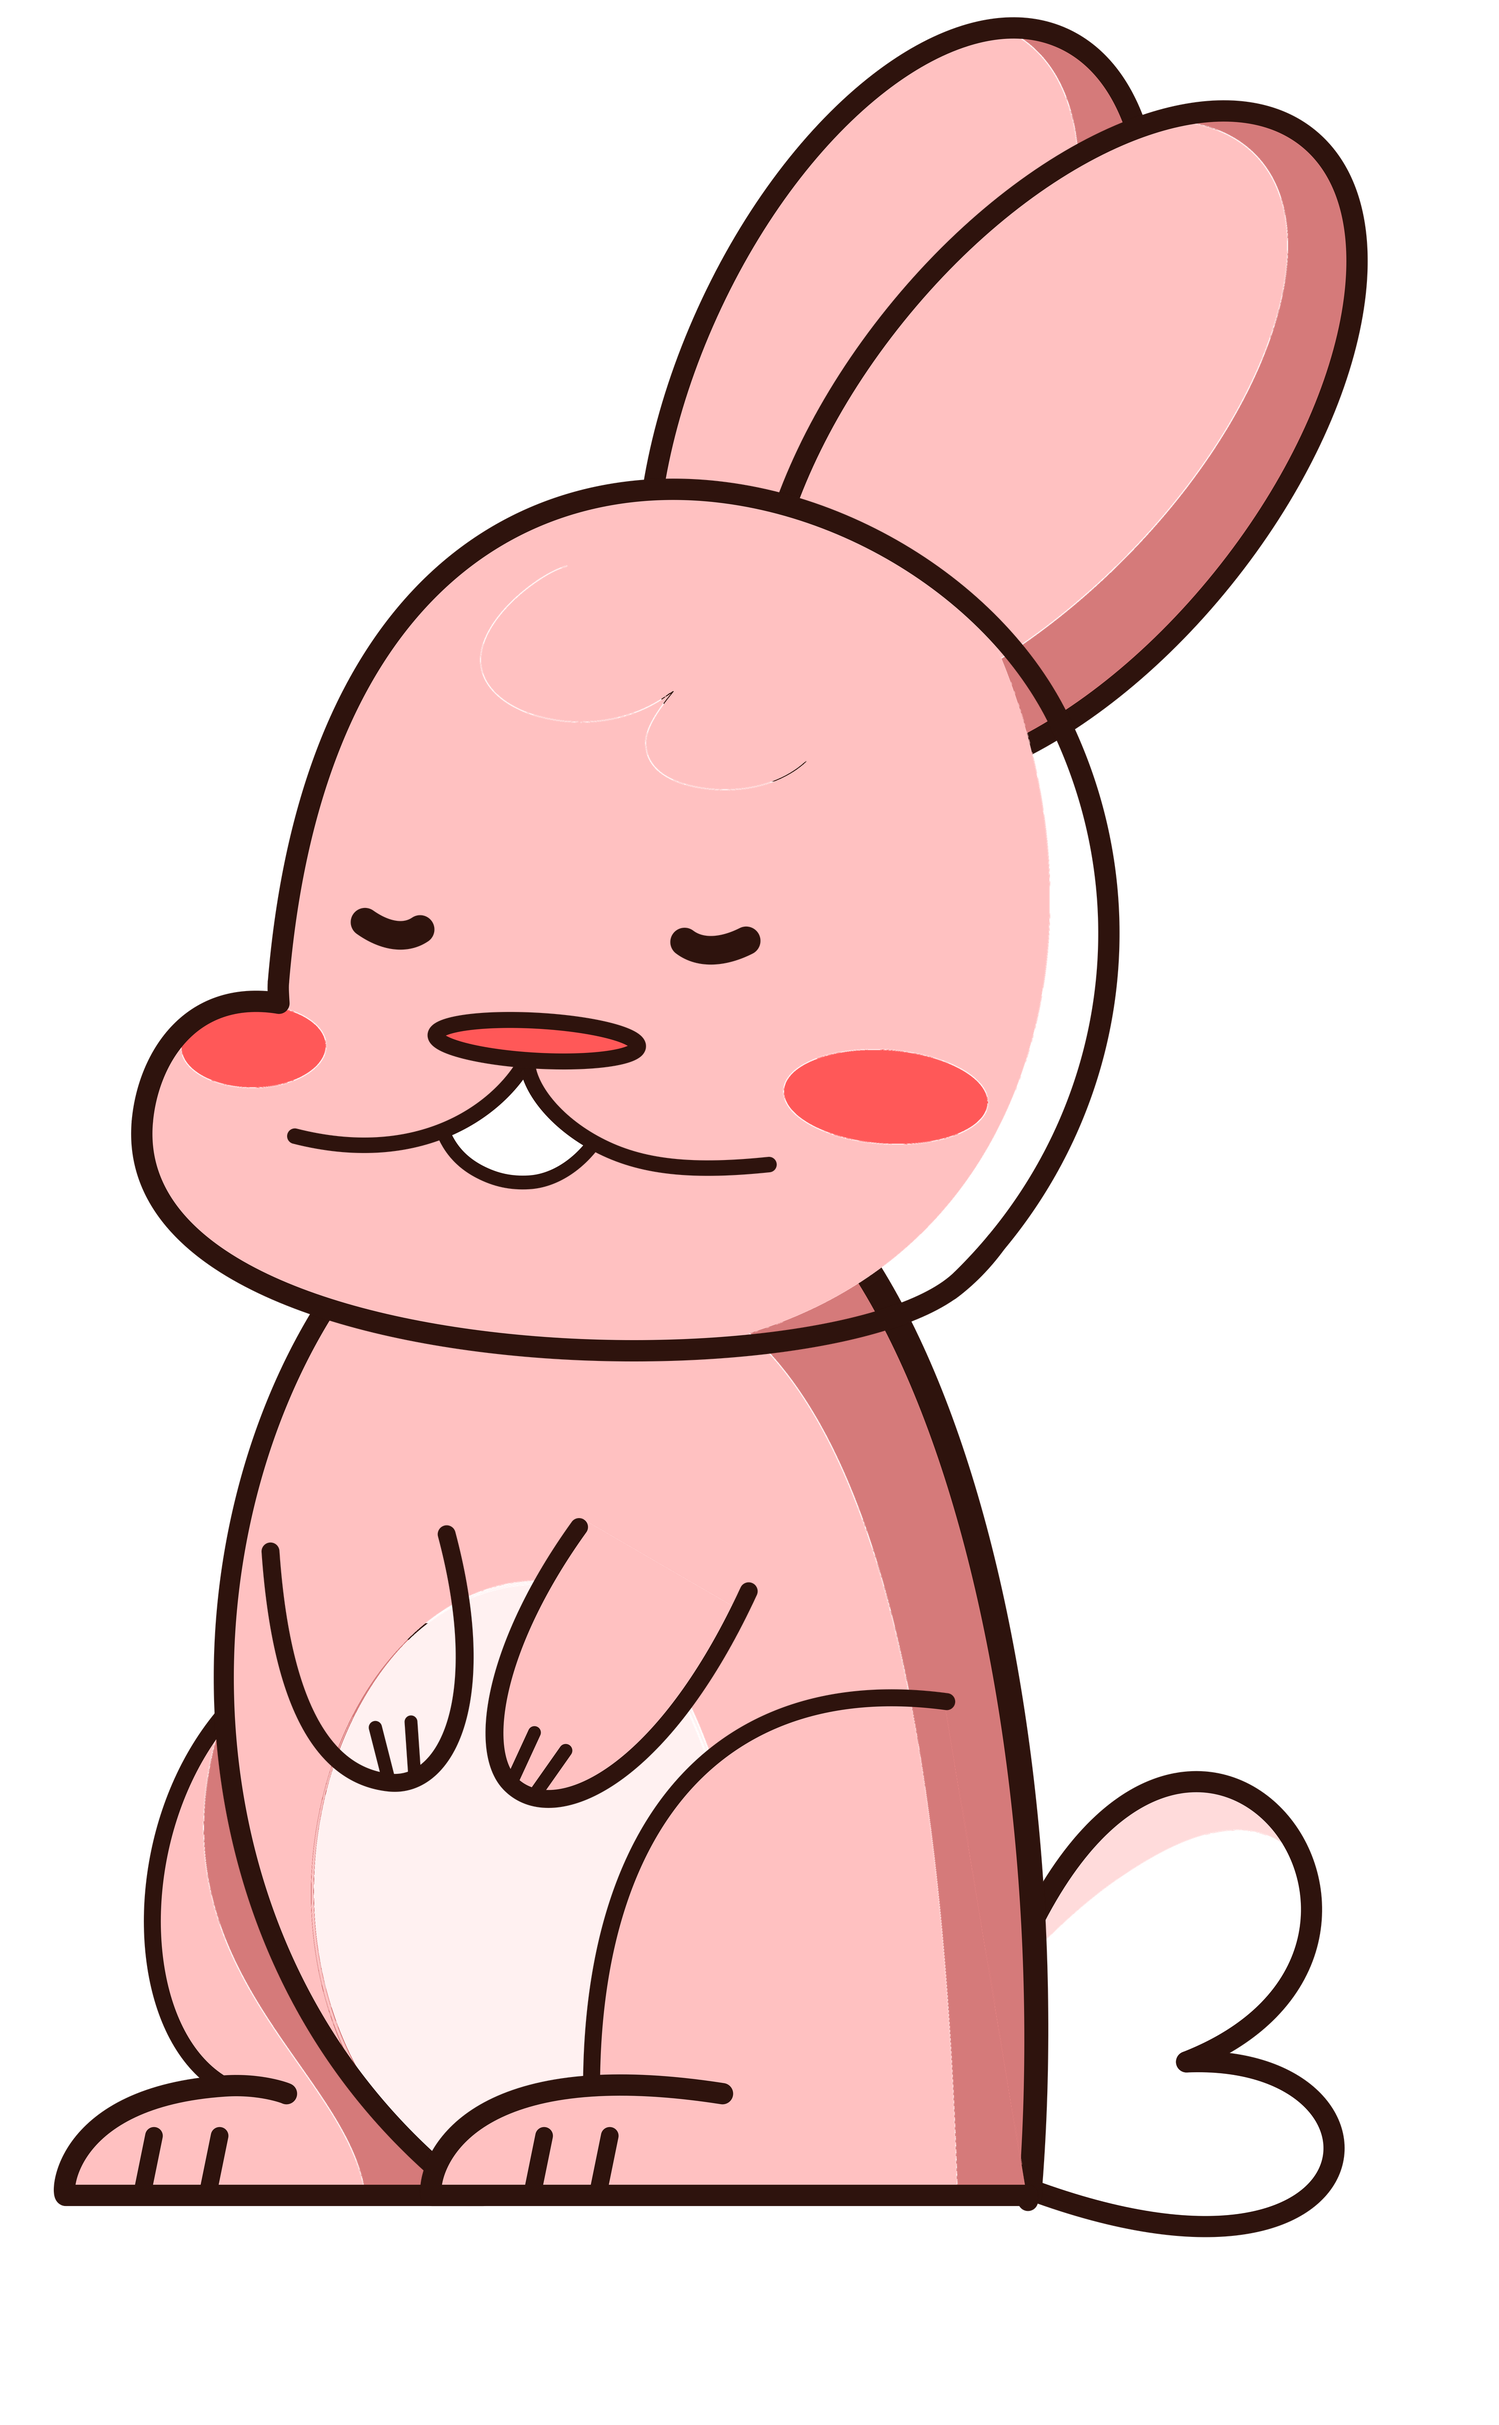
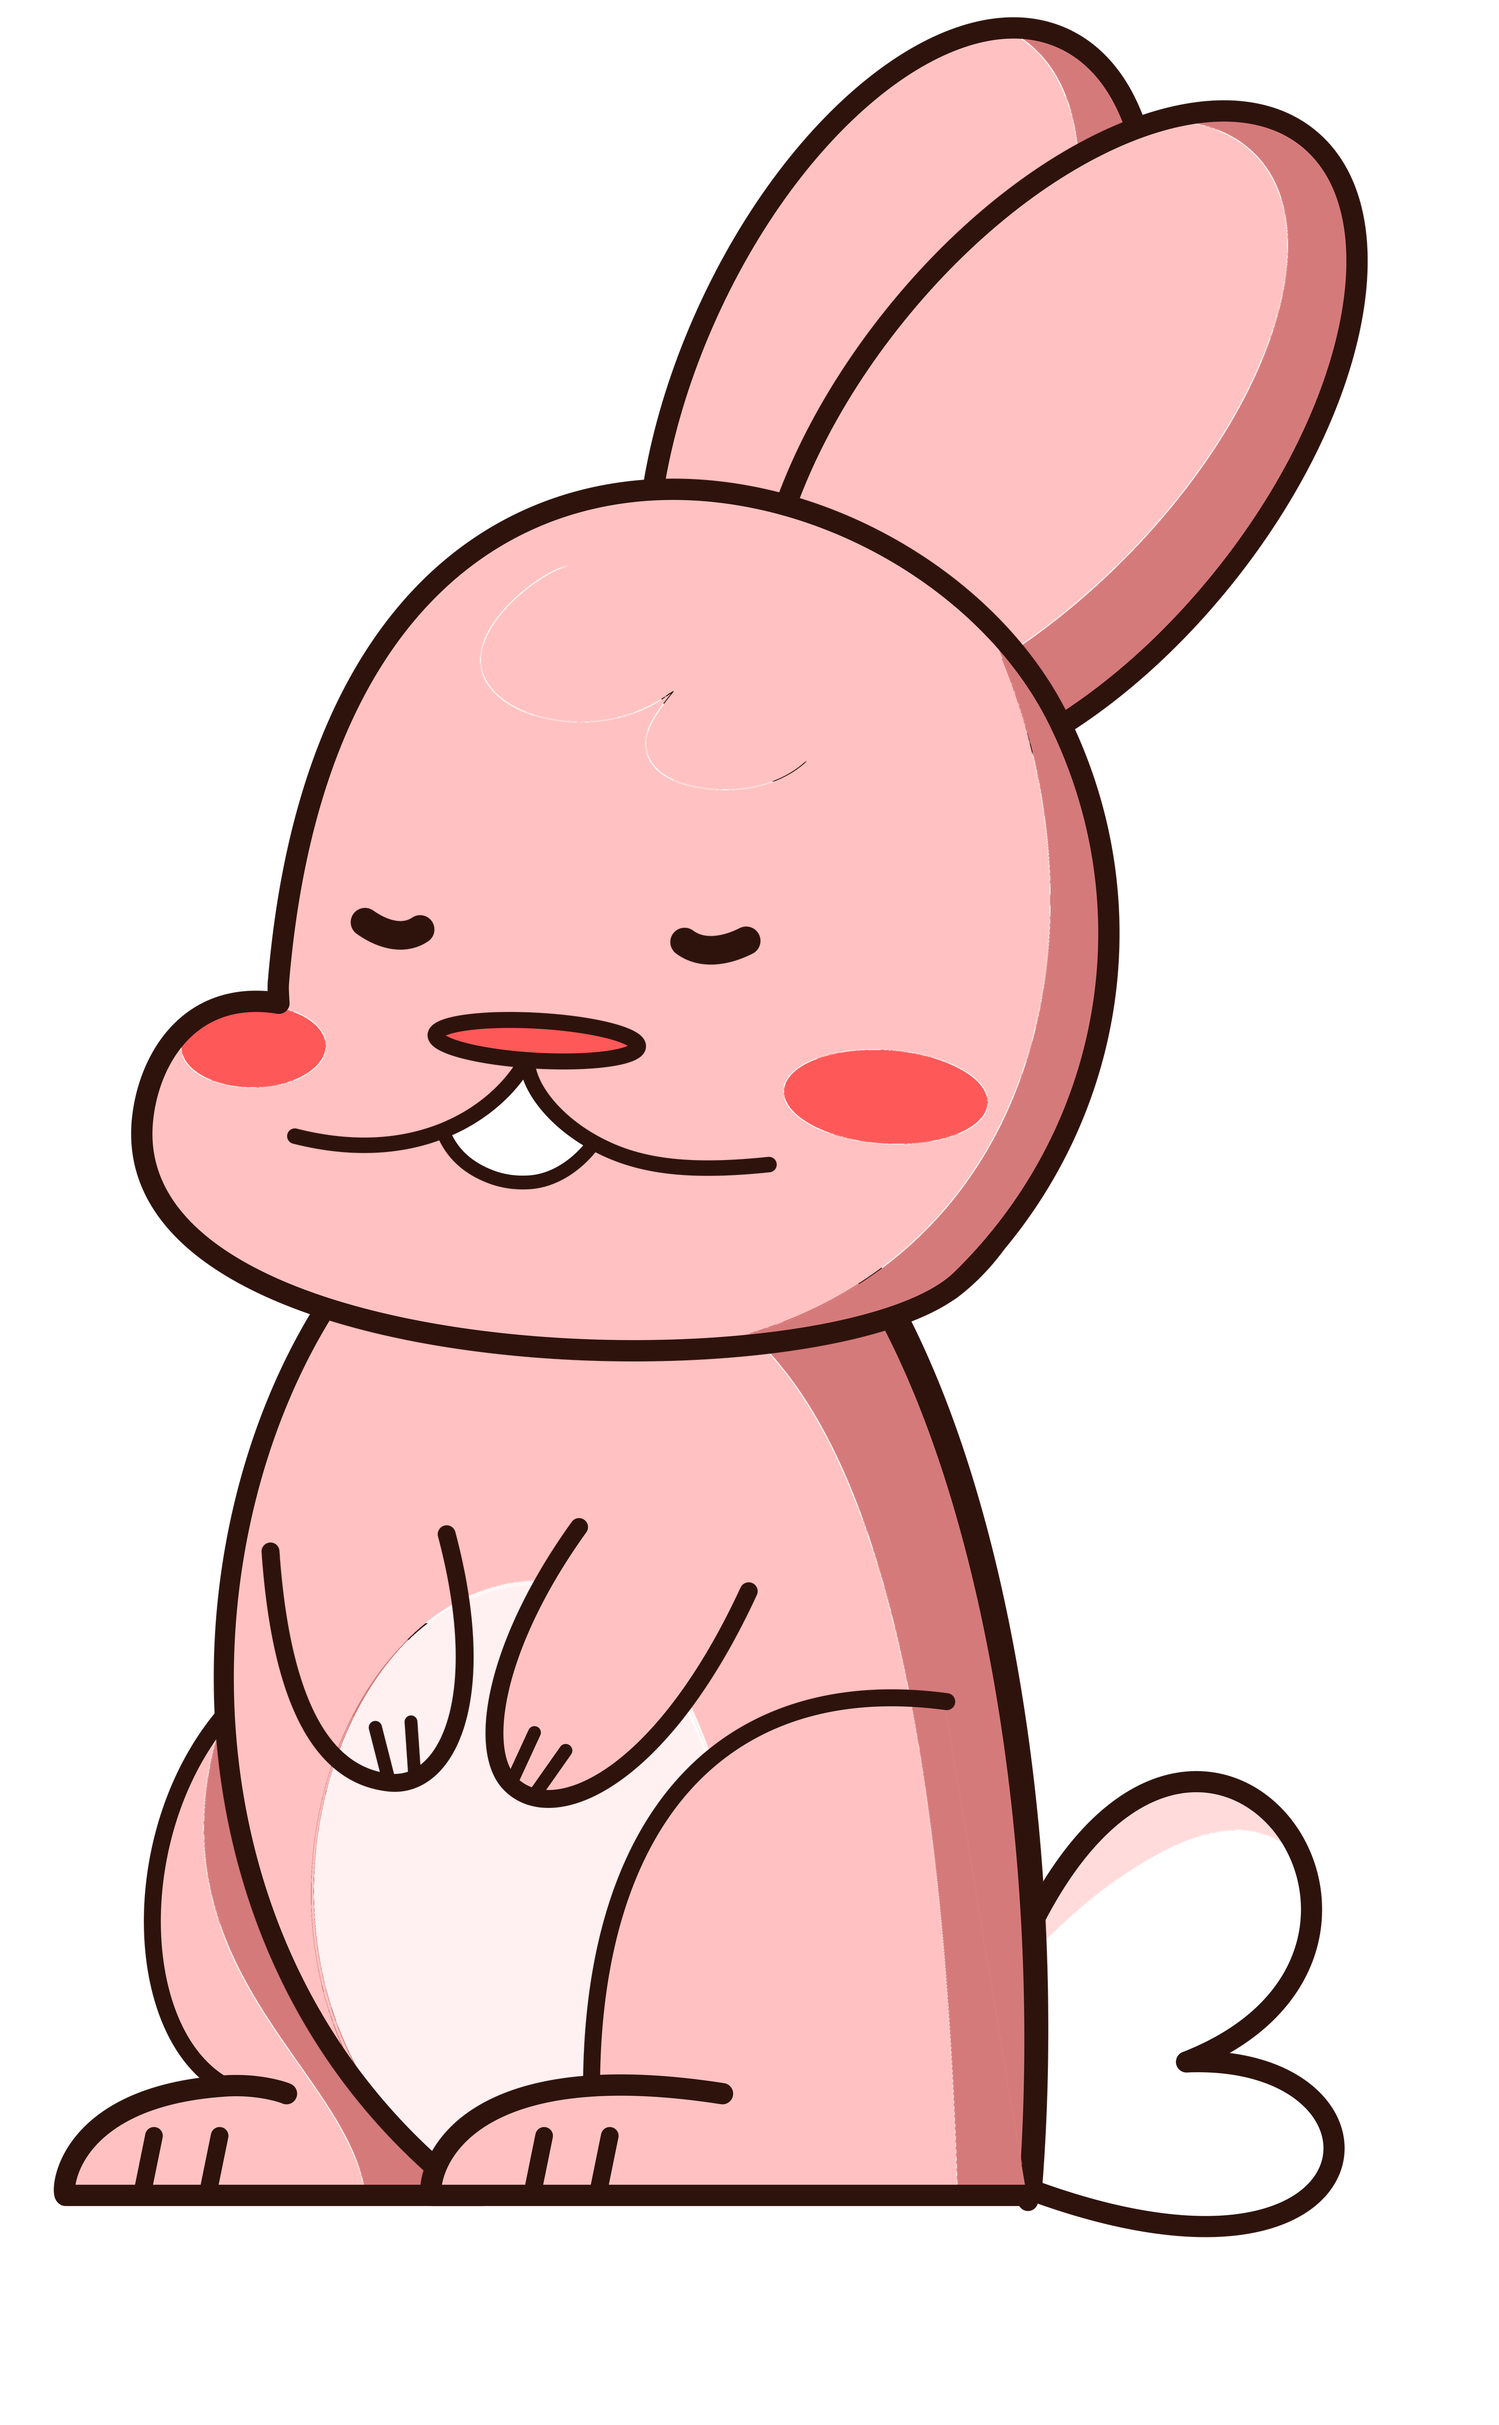
fix: restore bunny head fill

Changed region(s): [[0.5874, 0.2808, 0.742, 0.5616]]

diff --git a/v3/public/format-repositories/animal-conversations-v1/PROOF-REPORT.md b/v3/public/format-repositories/animal-conversations-v1/PROOF-REPORT.md
@@ -4,6 +4,15 @@
 
 The Harmony-free converter generated complete colored cat and bunny idle poses plus mouth-open and blink substitutions from the supplied Toon Boom projects. Converter tests assert the complete 12-layer order, exact palette recovery, source PEG placement, detached bunny fill nodes, expression drawing substitutions, transparent borders, and required opaque interior points. The six packaged character PNGs are checksum-bound in `assets.json`; each has a colocated conversion receipt.
 
+## Character-fill failure and fix
+
+- Observed failure: the bunny's dark-pink head shadow was transparent in every packaged pose. The close-up camera mirrors the pose, so the missing region appeared on the left side of the on-screen head and exposed the background curtain.
+- Root cause: the `Head-1.tvg` dark-pink paint seed (`0b6d656fc8edfc85`) resolved from boundary 11 side 0 to no enclosed region. The only previous required opacity point sampled the torso, so conversion incorrectly passed.
+- Smallest fix: bind that seed to boundary 11 side 1 in the bunny manifest and regenerate idle, blink, and mouth-open through the official converter. The recovered region contains 596,695 source-render pixels and the full pose's opaque coverage rises from 0.48925 to 0.49675.
+- Guardrail: conversion now checks a point inside the repaired head shadow, and tests inspect every cat/dog and bunny pose at all manifest-required head/body/tail points. A bunny-specific assertion also locks the repaired point to RGBA `[213,122,122,255]`.
+- Dog/cat inspection: idle, blink, and mouth-open were regenerated against expanded head/body/tail opacity points without changing their existing PNG hashes. High-contrast pose sheets, supplied-reference comparison, and two full-resolution rendered close-ups showed no analogous background leak.
+- Render evidence: smoke and both 31.137-second supplied-audio proofs passed. Exact living-room close-ups at 3.0, 11.5, 17.0, and 25.0 seconds were inspected at full resolution; both bunny talking/idle frames have a complete head shadow and both blue dog/cat frames remain fully colored.
+
 ## Free smoke proof
 
 - Run: `agent-runs/smoke-proof` (ignored local evidence)
@@ -18,7 +27,7 @@ The Harmony-free converter generated complete colored cat and bunny idle poses p
[1 lines of base64/hex data omitted]
 - Measured input duration: 31.137007 seconds
 - Timeline: 15 contiguous beats; all three approved cameras and all four speaker modes. Fourteen spoken beats were explicitly confirmed from the supplied reference video's speaker-colored captions and mouth motion; the silent reaction was confirmed separately.
[2 lines of base64/hex data omitted]
 - Automated result: pass at 1080x1920, 24 fps, H.264/AAC, mean audio -18.5 dB, 14 captioned beats
 - Direct visual review: the regenerated contact sheet was inspected at original resolution, the full 31-second render was scanned at one-second intervals, and dense transition sheets were inspected across 7.4-11.1 and 21.8-24.6 seconds. The disputed `No judging`, `We listen`, and `We're just listening` beats now use the cat caption color and cat mouth while the bunny remains a listener. The silent 27.9-28.8 reaction now uses the reference-matched cat close-up. Staging and bunny-only orientation remain correct.
 - Audio evidence: codec, duration, stream presence, and mean level passed automated inspection. No claim of directly hearing or judging intelligibility is made from player controls or metadata.
@@ -27,7 +36,7 @@ The Harmony-free converter generated complete colored cat and bunny idle poses p
 
 - Run: `agent-runs/sample-backyard` (ignored local evidence)
 - Variation: identical user audio and timing with the packaged `backyard` background
[2 lines of base64/hex data omitted]
 - Result: every automated gate passed, including 15-of-15 confirmed speaker beats; direct contact-sheet inspection confirmed the corrected cat assignments and that the replaceable background flows through the same renderer without changing character, caption, or camera behavior
 
 ## Speaker-assignment failure and fix
@@ -52,4 +61,4 @@ The reference MP4 container reports 31.251202 seconds, while its extracted AAC s
 
 ## Packaged handoff
 
-`npm run build:kit` produced a version 0.2.0 ZIP without `node_modules`, generated runs, Cargo targets, local audio, or speaker-review clips. A fresh extraction under `/private/tmp` completed `npm install`, all ten Node tests, the Rust decoder test, `npm run check`, and the full free smoke command successfully. The packaged smoke generated and applied a current speaker-assignment receipt before rendering; original-resolution contact-sheet inspection confirmed all three camera/character modes. The final ponytail simplicity audit found no speculative abstraction or dependency to remove.
+`npm run build:kit` produced a version 0.2.1 ZIP without `node_modules`, generated runs, Cargo targets, local audio, or speaker-review clips. A fresh extraction under `/private/tmp` completed `npm install`, all thirteen Node tests, the Rust decoder test, `npm run check`, and the full free smoke command successfully. The packaged smoke generated and applied a current speaker-assignment receipt before rendering; original-resolution contact-sheet inspection confirmed all three camera/character modes and the repaired bunny head. The final ponytail simplicity audit found no speculative abstraction or dependency to remove.

diff --git a/v3/public/format-repositories/animal-conversations-v1/PROVENANCE.md b/v3/public/format-repositories/animal-conversations-v1/PROVENANCE.md
@@ -2,7 +2,7 @@
 
 - Cat and bunny source rigs: supplied by the user as Toon Boom Harmony projects. The projects are converter inputs and are not redistributed here.
 - Background plates: five files supplied by the user for this format; checksums are recorded in `assets.json`.
-- Character pose PNGs: locally reconstructed from the supplied rigs by `converter/convert_pose.mjs`; pose receipts and converter tests prove layer count, palette, transparency, and interior opacity.
+- Character pose PNGs: locally reconstructed from the supplied rigs by `converter/convert_pose.mjs`; pose receipts and converter tests prove layer count, palette, transparent borders, required head/body/tail opacity, and the recovered bunny head-shadow fill.
 - TVG decoder foundation: `c-probably-archived20260718/tvg`, commit `9d09471e`, MIT licensed. The vendored source attribution is in `converter/source/README.md`.
 - Runtime audio: always supplied locally by the episode user and excluded from version control.
 - Speaker evidence: per-beat review clips and checksum-bound assignment receipts stay in the ignored local run folder and are not packaged with user audio.

diff --git a/v3/public/format-repositories/animal-conversations-v1/README.md b/v3/public/format-repositories/animal-conversations-v1/README.md
@@ -39,7 +39,7 @@ npm run convert -- --rig=/absolute/path/CAT_LOOP_1 --manifest=cat-frame1 --mouth
 npm run convert -- --rig=/absolute/path/BUN_LOOP_1 --manifest=bunny-frame1 --mouth=2 --eyes=1 --output=/absolute/path/bunny.png
 ```
 
-The converter requires Cargo, Node, and Sharp but not Harmony. It writes a checksum receipt beside each PNG. See `converter/RECOVERY.md` for the recovered TGCO fill behavior and pose-manifest details.
+The converter requires Cargo, Node, and Sharp but not Harmony. It writes a checksum receipt beside each PNG. Character manifests define required opaque interior points, and tests verify those points in every packaged idle, blink, and mouth-open pose. See `converter/RECOVERY.md` for the recovered TGCO fill behavior and pose-manifest details.
 
 ## Output
 

diff --git a/v3/public/format-repositories/animal-conversations-v1/converter/RECOVERY.md b/v3/public/format-repositories/animal-conversations-v1/converter/RECOVERY.md
@@ -27,6 +27,9 @@ and paint-region seed data.
 - Complete colored cat and bunny poses pass dimension, alpha coverage,
   transparent-border, required-palette, and source-layer-count checks without
   Toon Boom Harmony.
+- The bunny head's detached dark-pink shadow seed is explicitly bound to side 1
+  of boundary 11. Required head/body points and packaged-pose tests prevent that
+  region from silently becoming transparent again.
 
 The 64 MB cat and 61 MB bunny Harmony projects remain external user-supplied
 inputs. The Repo packages only the converter, exact frame-one manifests,
